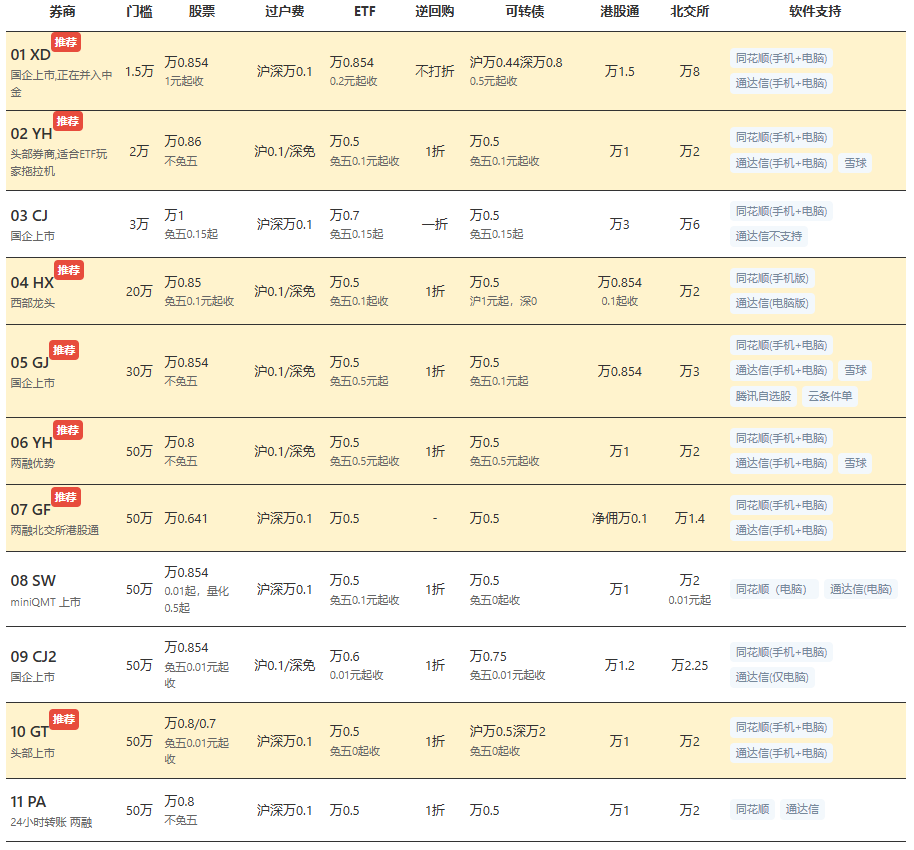
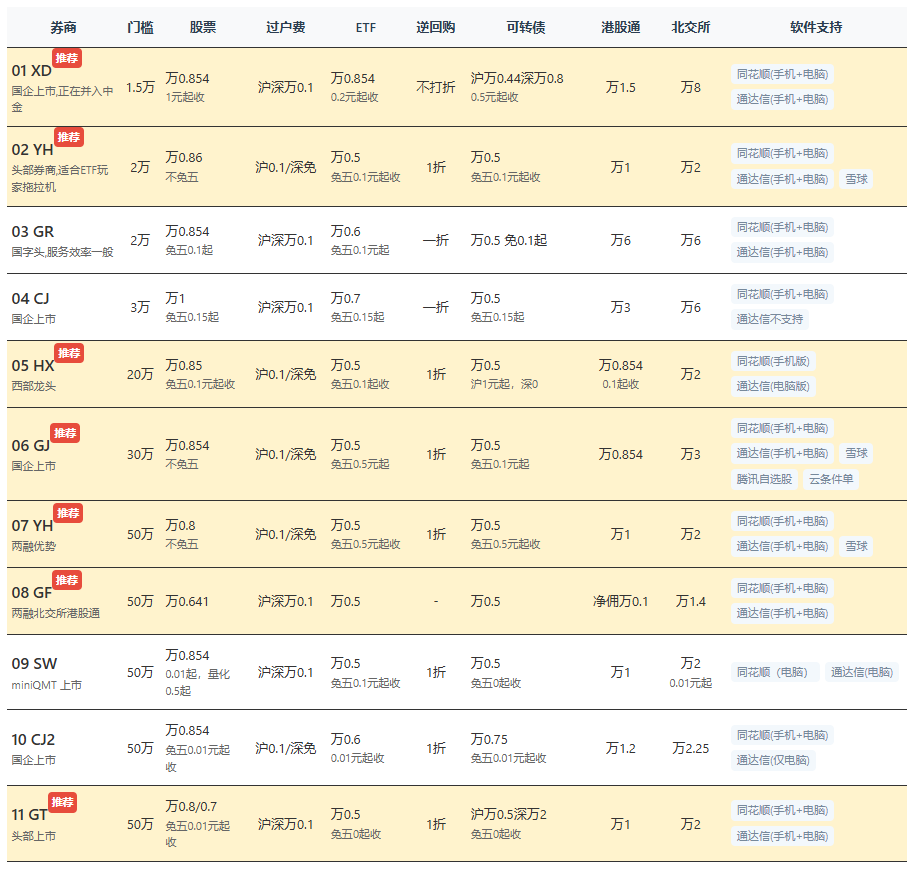
docs: 更新券商推荐信息和图片资源
- 修改kh.md文档中的券商推荐内容，增加国融选项
- 更新broker_data.json中国融券商的推荐语和可见性设置
- 替换simple_list2.png和simple_list_11.png图片资源

diff --git a/docs/kh.md b/docs/kh.md
@@ -22,7 +22,7 @@ layout: doc
 
 ## 不知道怎么选？
 1. **只玩ETF的聪明钱** YH ETF万0.5 ，1毛起收非常合适。适合大多数散户，宽指ETF+逆回购+打新，我妹妹等朋友也是推荐这家，劝退个股。
-2. 低门槛免五的 推荐上市券商 XD万0.854 ，汇金系，上周爆出中金重组，另外还有长江可选。
+2. 低门槛免五的 推荐上市券商 XD万0.854 ，汇金系，上周爆出中金重组，另外还有长江国融可选。
 3. 50 万+的大佬们 GT万0.8免五，各项费率都很优秀，当然不免五的万 0.641 的广发也可以的。
 4. 量化选手SW50W ，可开miniqmt，国金20w门槛但不免五，东北江海等元旦后 。
 5. 两融银河广发银河：50w-3.5%，100w-3.3%,200w-3.0%,700w-2.88%,1000w-2.6%
